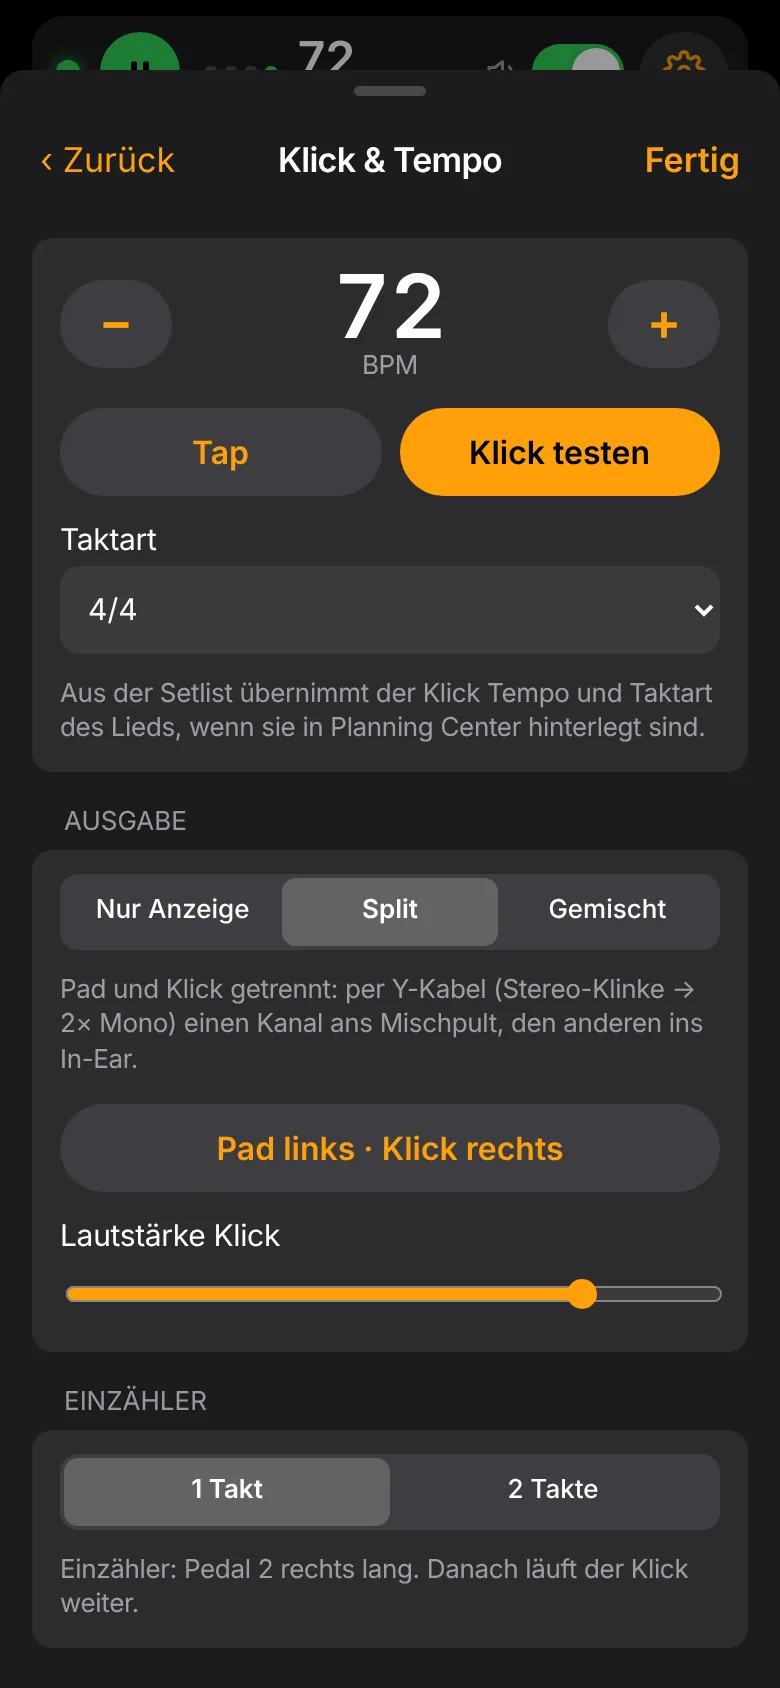
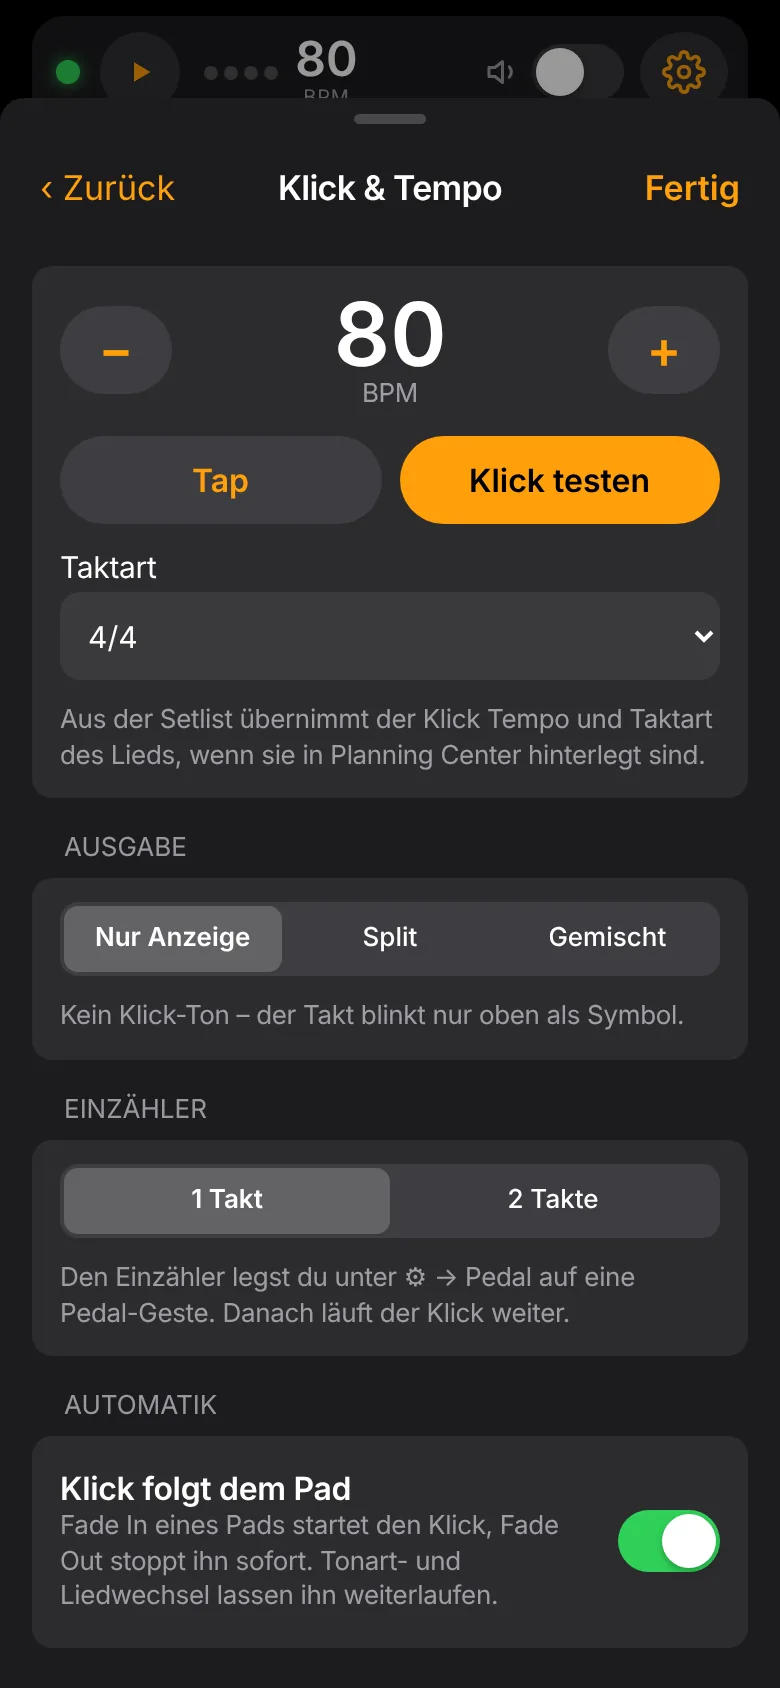
Version 3.5.0: Klick an/aus und Einzähler als Pedal-Aktionen, Pedal 2 frei belegbar, Option „Klick folgt dem Pad“
Claude-Session: https://claude.ai/code/session_0147wDrskXbm4k3nvnf9uujt

diff --git a/index.html b/index.html
@@ -513,6 +513,14 @@ body.muted .mrow2 input,body.muted .mrow2 .pct{opacity:.4}
 #checkList .trow.tg label input{width:22px;height:22px;accent-color:var(--accent);flex:none}
 .trow.tg label span{display:flex;flex-direction:column}
 .trow.tg .btn{flex:none;min-height:38px;font-size:14px;padding:6px 12px}
+
+/* iOS-Kippschalter für Optionszeilen in den Einstellungen */
+.group>label.trow{background:transparent!important;padding:4px 0!important;justify-content:space-between;flex-direction:row-reverse!important;gap:14px}
+.group>label.trow b{color:var(--fg,#fff);font-weight:600;font-size:16px}
+.group>label.trow input{appearance:none;-webkit-appearance:none;width:51px!important;height:31px!important;border-radius:16px;background:rgba(120,120,128,.36);position:relative;flex:none;margin:0;cursor:pointer;transition:background .2s}
+.group>label.trow input::after{content:"";position:absolute;top:2px;left:2px;width:27px;height:27px;border-radius:50%;background:#fff;box-shadow:0 2px 4px rgba(0,0,0,.25);transition:transform .2s}
+.group>label.trow input:checked{background:var(--sys-green,#30d158)}
+.group>label.trow input:checked::after{transform:translateX(20px)}
 </style>
 </head>
 <body>
@@ -616,17 +624,25 @@ body.muted .mrow2 input,body.muted .mrow2 .pct{opacity:.4}
     <p class="hint">Am Pedal einen Modus mit Pfeiltasten oder Bild↑/↓ wählen und den Repeat-Modus ausschalten.</p>
     <h3>Belegung</h3>
     <div class="group" id="p_map">
-      <label><span>Links 1×</span><select id="pm_lt"><option value="next">Vor (Tonart / Lied)</option><option value="prev">Zurück (Tonart / Lied)</option><option value="fade">Fade In / Out</option><option value="volume">Lautstärke-Modus</option><option value="none">– nichts –</option></select></label>
-      <label><span>Links 2× (doppelt)</span><select id="pm_ld"><option value="next">Vor (Tonart / Lied)</option><option value="prev">Zurück (Tonart / Lied)</option><option value="fade">Fade In / Out</option><option value="volume">Lautstärke-Modus</option><option value="none">– nichts –</option></select></label>
-      <label><span>Rechts 1×</span><select id="pm_rt"><option value="next">Vor (Tonart / Lied)</option><option value="prev">Zurück (Tonart / Lied)</option><option value="fade">Fade In / Out</option><option value="volume">Lautstärke-Modus</option><option value="none">– nichts –</option></select></label>
-      <label><span>Rechts 2× (doppelt)</span><select id="pm_rd"><option value="next">Vor (Tonart / Lied)</option><option value="prev">Zurück (Tonart / Lied)</option><option value="fade">Fade In / Out</option><option value="volume">Lautstärke-Modus</option><option value="none">– nichts –</option></select></label>
+      <label><span>Links 1×</span><select id="pm_lt"></select></label>
+      <label><span>Links 2× (doppelt)</span><select id="pm_ld"></select></label>
+      <label><span>Rechts 1×</span><select id="pm_rt"></select></label>
+      <label><span>Rechts 2× (doppelt)</span><select id="pm_rd"></select></label>
       <label><span>Zeit für Doppeltipp <b id="v_dbl"></b></span><input type="range" id="p_dbl" min="200" max="700" step="25"></label>
-      <p class="hint">„Vor“ und „Zurück“ gehen durch die Tonarten – bei aktiver Setlist von Lied zu Lied. Ist für eine Taste kein Doppeltipp belegt, reagiert der einfache Tritt sofort; sonst wartet die App die Doppeltipp-Zeit ab. Im Lautstärke-Modus: rechts = lauter, links = leiser (5 %); zurück automatisch nach 3 s oder per Doppeltipp.</p>
+      <p class="hint">„Vor“ und „Zurück“ gehen durch die Tonarten – bei aktiver Setlist von Lied zu Lied. „Einzähler“ zählt ein, danach läuft der Klick weiter. Ist für eine Taste kein Doppeltipp belegt, reagiert der einfache Tritt sofort; sonst wartet die App die Doppeltipp-Zeit ab. Im Lautstärke-Modus: rechts = lauter, links = leiser (5 %); zurück automatisch nach 3 s oder per Doppeltipp.</p>
       <div class="row"><button class="btn" id="pm_reset">Standard-Belegung</button></div>
     </div>
-    <h3>Pedal 2 · Sets &amp; Klick</h3>
+    <h3>Pedal 2</h3>
     <div class="group"><p id="pedal2Info"></p>
       <div class="row"><button class="btn accent" id="learn2Btn">Pedal 2 lernen</button><button class="btn" id="pedal2Reset">Entfernen</button></div></div>
+    <div class="group" id="p2_map">
+      <label><span>Links 1×</span><select id="pm2_lt"></select></label>
+      <label><span>Links 2× (doppelt)</span><select id="pm2_ld"></select></label>
+      <label><span>Rechts 1×</span><select id="pm2_rt"></select></label>
+      <label><span>Rechts 2× (doppelt)</span><select id="pm2_rd"></select></label>
+      <p class="hint">Die Zeit für den Doppeltipp gilt für beide Pedale.</p>
+      <div class="row"><button class="btn" id="pm2_reset">Standard-Belegung</button></div>
+    </div>
     <p class="hint">Beide Pedale gleichzeitig in den iOS-Einstellungen unter Bluetooth koppeln. Sie müssen unterschiedliche Tasten senden – also verschiedene Modi am Pedal wählen.</p>
   </section>
 
@@ -647,7 +663,9 @@ body.muted .mrow2 input,body.muted .mrow2 .pct{opacity:.4}
     </div>
     <h3>Einzähler</h3>
     <div class="group"><div class="seg" id="c_count"><button class="segbtn" data-v="1">1 Takt</button><button class="segbtn" data-v="2">2 Takte</button></div>
-      <p class="hint">Einzähler: Pedal 2 rechts lang. Danach läuft der Klick weiter.</p></div>
+      <p class="hint">Den Einzähler legst du unter ⚙ → Pedal auf eine Pedal-Geste. Danach läuft der Klick weiter.</p></div>
+    <h3>Automatik</h3>
+    <div class="group"><label class="trow"><input type="checkbox" id="c_follow"><span><b>Klick folgt dem Pad</b><small>Fade In eines Pads startet den Klick, Fade Out stoppt ihn sofort. Tonart- und Liedwechsel lassen ihn weiterlaufen.</small></span></label></div>
   </section>
 
   <!-- Übergänge & Klang -->
@@ -832,7 +850,7 @@ body.muted .mrow2 input,body.muted .mrow2 .pct{opacity:.4}
 
 <script>
 "use strict";
-const VERSION="3.4.0";
+const VERSION="3.5.0";
 // ================= Grundlagen =================
 const KEYS=[["C",null],["D♭","C♯"],["D",null],["E♭","D♯"],["E",null],["F",null],["F♯","G♭"],["G",null],["A♭","G♯"],["A",null],["B♭","A♯"],["B",null]];
 const SETCOLORS=["#ff9f33","#4fc3f7"];
@@ -1152,18 +1170,19 @@ function stopLayer(L,dur){
 function playKey(k){
   const a=hasPad(S.set,k), b=hasPad(S.setB,k);
   if(!a&&!b){toast(`${KEYS[k][0]} ist in „${setName(S.set)}“${S.setB?` und „${setName(S.setB)}“`:""} nicht belegt`);return false;}
+  if(!anyCur()&&CLICK.follow&&!clickOn)startClick(false);   // Fade In aus der Stille → Klick mit starten
   if(a)play(S.set,k,"a"); else stopLayer("a",S.xfade);
   if(b)play(S.setB,k,"b"); else stopLayer("b",S.xfade);
   return true;
 }
 function stopCurrent(dur){ loadingKey=null; stopLayer("a",dur); stopLayer("b",dur); render(); }
 function stopMatching(fn,dur){ if(current&&fn(current)){stopLayer("a",dur);} if(curB&&fn(curB)){stopLayer("b",dur);} render(); }
-function fadeAll(dur){ request++; requestB++; loadingKey=null; if(ctx)for(const v of voices)fadeOutVoice(v,dur); current=null; curB=null; render(); }
+function fadeAll(dur){ if(CLICK.follow&&clickOn&&anyCur())stopClick(); request++; requestB++; loadingKey=null; if(ctx)for(const v of voices)fadeOutVoice(v,dur); current=null; curB=null; render(); }
 function isPlaying(k){return playingKey()===k;}
 
 function toggleKey(k){
   setSelected(k);
-  if(isPlaying(k)){stopCurrent(S.fadeOut);return;}
+  if(isPlaying(k)){stopCurrent(S.fadeOut);if(CLICK.follow&&clickOn)stopClick();return;}
   playKey(k);
 }
 function setSelected(k){ selected=((k%12)+12)%12; store("apl.selected",selected); render(); clearTimeout(setSelected.t); setSelected.t=setTimeout(()=>{prefetch(S.set,selected);if(S.setB)prefetch(S.setB,selected);},250); }
@@ -1190,7 +1209,12 @@ const down={};            // side → {t, timer, longFired}
 let learning=null, lastSide=null, lastSideT=0, fallbackTimer=null, fallbackSide=null;
 function sideOf(key){ if(typeof side2==="function"&&side2(key))return null; if(P.left.includes(key))return "left"; if(P.right.includes(key))return "right"; return null; }
 // ---- Pedal 1: frei belegbare Gesten (links/rechts × einmal/doppelt) ----
-const PEDAL_ACTIONS={next:"Vor (Tonart / Lied)",prev:"Zurück (Tonart / Lied)",fade:"Fade In / Out",volume:"Lautstärke-Modus",none:"– nichts –"};
+const PEDAL_ACTIONS={next:"Vor (Tonart / Lied)",prev:"Zurück (Tonart / Lied)",fade:"Fade In / Out",volume:"Lautstärke-Modus",click:"Klick an / aus",count:"Einzähler",setnext:"Set Ebene 2 vor",setprev:"Set Ebene 2 zurück",none:"– nichts –"};
+const P2_ACTIONS=["next","prev","fade","click","count","setnext","setprev","none"];   // ohne Lautstärke-Modus (der gehört zu Pedal 1)
+function fillPedalSelects(){for(const k of ["lt","ld","rt","rd"]){const a=$("pm_"+k),b=$("pm2_"+k);
+  if(a&&!a.options.length)a.innerHTML=Object.entries(PEDAL_ACTIONS).map(([v,t])=>`<option value="${v}">${t}</option>`).join("");
+  if(b&&!b.options.length)b.innerHTML=P2_ACTIONS.map(v=>`<option value="${v}">${PEDAL_ACTIONS[v]}</option>`).join("");}}
+fillPedalSelects();
 const PMAP_DEFAULT={lt:"next",ld:"prev",rt:"fade",rd:"volume"};
 P.map=Object.assign({},PMAP_DEFAULT,P.map||{});if(!P.dbl)P.dbl=350;
 function runPedal(act){
@@ -1198,6 +1222,10 @@ function runPedal(act){
   else if(act==="prev"){slOn()?stepSong(-1):stepSel(-1);}
   else if(act==="fade"){toggleKey(selected);}
   else if(act==="volume"){volMode?exitVol():enterVol();}
+  else if(act==="click"){toggleClick();}
+  else if(act==="count"){countIn();}
+  else if(act==="setnext"){stepSet(1);}
+  else if(act==="setprev"){stepSet(-1);}
 }
 // ---- Lautstärke-Modus: rechts = lauter, links = leiser (halten = stufenlos, falls das Pedal Halten meldet) ----
 let volMode=false,volExitT=null,volRampT=null,volRampI=null,volTap={left:0,right:0},volPrev={left:null,right:null};
@@ -1218,11 +1246,11 @@ function volKeyDown(side){
 }
 function volKeyUp(){clearTimeout(volRampT);clearInterval(volRampI);}
 const pend={left:null,right:null};
-function pedalTap(side){
-  const t=P.map[side==="left"?"lt":"rt"],d=P.map[side==="left"?"ld":"rd"];
+function pedalTap(side,map=P.map,pd=pend){
+  const t=map[side==="left"?"lt":"rt"],d=map[side==="left"?"ld":"rd"];
   if(d==="none"){runPedal(t);return;}                    // kein Doppeltipp belegt → sofort reagieren
-  if(pend[side]){clearTimeout(pend[side]);pend[side]=null;runPedal(d);return;}
-  pend[side]=setTimeout(()=>{pend[side]=null;runPedal(t);},P.dbl);
+  if(pd[side]){clearTimeout(pd[side]);pd[side]=null;runPedal(d);return;}
+  pd[side]=setTimeout(()=>{pd[side]=null;runPedal(t);},P.dbl);
 }
 const typing=e=>e.target&&e.target.tagName==="INPUT"&&(e.target.type==="text"||e.target.type==="password");
 window.addEventListener("keydown",e=>{
@@ -1273,6 +1301,7 @@ function learnKeyDown(e){
       if(P2){P2.left=P2.left.filter(k=>k!==L.left&&k!==L.right);P2.right=P2.right.filter(k=>k!==L.left&&k!==L.right);if(!P2.left.length||!P2.right.length)P2=null;savePedal2();updatePedal2Info();}
       learning=null;$("learnBox").textContent="Fertig ✓";$("learnSub").textContent=`Links = ${keyName(L.left)}, rechts = ${keyName(L.right)}. Die Belegung stellst du unter „Belegung“ ein.`;
       $("learnCancel").textContent="Schließen";updatePedalInfo();return;}
+    if(L.which===2){finishLearn();return;}
     L.step="hold";L.events=[];learnUI();
   }
   else if(L.step==="hold"&&e.key===L.left){
@@ -1290,11 +1319,11 @@ function finishLearn(){
   else if(downs>2){hold=false;note="Dein Pedal sendet beim Halten viele einzelne Tritte (Repeat-Modus). Schalte am Pedal den Repeat-Modus aus und lerne erneut – bis dahin gilt: links doppelt = zurück, beide Tasten = alles aus.";}
   else{hold=false;note="Dein Pedal meldet kein langes Drücken. Ersatz: links doppelt tippen = zurück, beide Tasten gleichzeitig = alles ausblenden.";}
   if(L.which===2){
-    P2={left:[L.left],right:[L.right],hold};savePedal2();
+    P2={left:[L.left],right:[L.right],map:(P2&&P2.map)||Object.assign({},P2MAP_DEFAULT)};savePedal2();
     // Tasten von Pedal 2 aus der Belegung von Pedal 1 entfernen (Standard enthält z. B. auch Bild↑/↓)
     P.left=P.left.filter(k=>k!==L.left&&k!==L.right);P.right=P.right.filter(k=>k!==L.left&&k!==L.right);savePedal();
     learning=null;
-    $("learnBox").textContent="Pedal 2 fertig ✓";$("learnSub").textContent=`Links = ${keyName(L.left)} (Sets), rechts = ${keyName(L.right)} (Klick). ${note.replace("links doppelt = zurück, beide Tasten = alles aus","doppelt tippen = lange Funktion").replace(/Ersatz:.*$/,"Ersatz: doppelt tippen = lange Funktion.")}`;
+    $("learnBox").textContent="Pedal 2 fertig ✓";$("learnSub").textContent=`Links = ${keyName(L.left)}, rechts = ${keyName(L.right)}. Die Belegung stellst du unter „Pedal 2“ ein.`;
     $("learnCancel").textContent="Schließen";updatePedalInfo();updatePedal2Info();return;
   }
   P={left:[L.left],right:[L.right],hold,map:P.map,dbl:P.dbl}; savePedal();
@@ -2238,7 +2267,7 @@ renderSetlist();
 
 // ================= Klick (Metronom) =================
 // Ausgabe: "visual" = nur Anzeige · "split" = Pad auf einem, Klick auf dem anderen Kanal (Mono) · "mix" = Klick in beiden Kanälen
-const CLICK=Object.assign({out:"visual",swap:false,vol:.8,bpm:80,meter:4,countIn:1},load("apl.click",{}));
+const CLICK=Object.assign({out:"visual",swap:false,vol:.8,bpm:80,meter:4,countIn:1,follow:false},load("apl.click",{}));
 const saveClick=()=>store("apl.click",CLICK);
 let clickGain=null,padMono=null,merger=null;
 function routeAudio(){
@@ -2354,13 +2383,14 @@ function renderClickSettings(){
   $("c_swapRow").style.display=CLICK.out==="split"?"":"none";
   $("c_swap").textContent=CLICK.swap?"Klick links · Pad rechts":"Pad links · Klick rechts";
   $("c_vol").value=CLICK.vol;$("c_volRow").style.display=CLICK.out==="visual"?"none":"";
-  $("c_meter").value=String(CLICK.meter);renderClick();
+  $("c_meter").value=String(CLICK.meter);$("c_follow").checked=!!CLICK.follow;renderClick();
   $("c_outHint").textContent={visual:"Kein Klick-Ton – der Takt blinkt nur oben als Symbol.",
     split:"Pad und Klick getrennt: per Y-Kabel (Stereo-Klinke → 2× Mono) einen Kanal ans Mischpult, den anderen ins In-Ear.",
     mix:"Klick auf beiden Kanälen zusammen mit dem Pad – z. B. für Kopfhörer beim Üben."}[CLICK.out];
 }
 document.querySelectorAll("#c_out .segbtn").forEach(b=>b.onclick=()=>{CLICK.out=b.dataset.v;if(CLICK.out!=="visual")CLICK.audioOut=CLICK.out;saveClick();routeAudio();renderClickSettings();});
 document.querySelectorAll("#c_count .segbtn").forEach(b=>b.onclick=()=>{CLICK.countIn=+b.dataset.v;saveClick();renderClickSettings();});
+$("c_follow").onchange=()=>{CLICK.follow=$("c_follow").checked;saveClick();toast(CLICK.follow?"Klick folgt dem Pad":"Klick unabhängig vom Pad");};
 $("c_swap").onclick=()=>{CLICK.swap=!CLICK.swap;saveClick();routeAudio();renderClickSettings();};
 $("c_vol").oninput=()=>{CLICK.vol=+$("c_vol").value;saveClick();if(clickGain)clickGain.gain.setTargetAtTime(CLICK.vol,ctx.currentTime,.02);};
 $("c_meter").onchange=()=>{setTempo(null,+$("c_meter").value);renderClickSettings();};
@@ -2371,38 +2401,26 @@ $("c_test").onclick=()=>{toggleClick();$("c_test").textContent=clickOn?"Klick st
 renderClickSettings();
 
 // ================= Pedal 2 =================
-// links kurz = nächstes Set · lang = Set zurück · rechts kurz = Klick an/aus · lang = Einzähler
+// frei belegbar wie Pedal 1: links/rechts × einmal/doppelt
+const P2MAP_DEFAULT={lt:"setnext",ld:"setprev",rt:"click",rd:"count"};   // entspricht der früheren festen Belegung
 let P2=load("apl.pedal2",null);
+if(P2&&!P2.map){P2.map=Object.assign({},P2MAP_DEFAULT);delete P2.hold;}
 const savePedal2=()=>{try{P2?localStorage.setItem("apl.pedal2",JSON.stringify(P2)):localStorage.removeItem("apl.pedal2");}catch(e){}};
 function side2(key){if(!P2)return null;if(P2.left.includes(key))return "left";if(P2.right.includes(key))return "right";return null;}
 function stepSet(dir){const keys=["",...allSetKeys().filter(k=>k!==S.set)],i=Math.max(0,keys.indexOf(S.setB));setLayerB(keys[((i+dir)%keys.length+keys.length)%keys.length]);}
-function action2(side,long){
-  if(side==="left")stepSet(long?-1:1);
-  else long?countIn():toggleClick();
-}
-const down2={};let tap2=null;
-function pedal2Down(e,side){
-  e.preventDefault();markPedal(e.key);if(e.repeat||down2[side])return;unlockAudio();
-  const d={longFired:false,timer:null};
-  if(P2.hold)d.timer=setTimeout(()=>{d.longFired=true;action2(side,true);},LONG_MS);
-  down2[side]=d;
-}
-function pedal2Up(e,side){
-  e.preventDefault();const d=down2[side];delete down2[side];if(!d)return;clearTimeout(d.timer);if(d.longFired)return;
-  if(P2.hold){action2(side,false);return;}
-  // ohne Halte-Erkennung: Doppeltipp = „lang“
-  if(tap2&&tap2.side===side){clearTimeout(tap2.timer);tap2=null;action2(side,true);return;}
-  tap2={side,timer:setTimeout(()=>{tap2=null;action2(side,false);},380)};
-}
-window.addEventListener("keydown",e=>{if(typing(e)||learning)return;const s=side2(e.key);if(!s)return;e.stopImmediatePropagation();pedal2Down(e,s);},true);
-window.addEventListener("keyup",e=>{if(typing(e)||learning)return;const s=side2(e.key);if(!s)return;e.stopImmediatePropagation();pedal2Up(e,s);},true);
+const down2={},pend2={left:null,right:null};
+window.addEventListener("keydown",e=>{if(typing(e)||learning)return;const s=side2(e.key);if(!s)return;e.stopImmediatePropagation();e.preventDefault();markPedal(e.key);
+  if(e.repeat||down2[s])return;down2[s]=1;unlockAudio();pedalTap(s,P2.map,pend2);},true);
+window.addEventListener("keyup",e=>{if(typing(e)||learning)return;const s=side2(e.key);if(!s)return;e.stopImmediatePropagation();e.preventDefault();delete down2[s];},true);
 function updatePedal2Info(){
-  const el=$("pedal2Info");if(!el)return;
-  el.innerHTML=P2?`Links: <b>${P2.left.map(keyName).join(" / ")}</b> · Rechts: <b>${P2.right.map(keyName).join(" / ")}</b><br>`+(P2.hold
-    ?"Links kurz = nächstes Set auf Ebene 2 · lang = zurück<br>Rechts kurz = Klick an/aus · lang = Einzähler"
-    :"Links = nächstes Set auf Ebene 2 · doppelt = zurück<br>Rechts = Klick an/aus · doppelt = Einzähler"):"Noch nicht eingerichtet. Ein zweites Pedal in einem anderen Modus koppeln (z. B. Bild↑/↓, wenn Pedal 1 Pfeiltasten sendet) und lernen.";
-  $("pedal2Reset").style.display=P2?"":"none";
+  const el=$("pedal2Info");if(!el)return;const A=k=>PEDAL_ACTIONS[P2.map[k]];
+  el.innerHTML=P2?`Links: <b>${P2.left.map(keyName).join(" / ")}</b> · Rechts: <b>${P2.right.map(keyName).join(" / ")}</b><br>Links 1× = ${A("lt")} · 2× = ${A("ld")}<br>Rechts 1× = ${A("rt")} · 2× = ${A("rd")}`
+    :"Noch nicht eingerichtet. Ein zweites Pedal in einem anderen Modus koppeln (z. B. Bild↑/↓, wenn Pedal 1 Pfeiltasten sendet) und lernen.";
+  $("pedal2Reset").style.display=P2?"":"none";$("p2_map").style.display=P2?"":"none";
+  if(P2)for(const k of ["lt","ld","rt","rd"])$("pm2_"+k).value=P2.map[k];
 }
+for(const k of ["lt","ld","rt","rd"])$("pm2_"+k).onchange=()=>{if(!P2)return;P2.map[k]=$("pm2_"+k).value;savePedal2();updatePedal2Info();};
+$("pm2_reset").onclick=()=>{if(!P2)return;P2.map=Object.assign({},P2MAP_DEFAULT);savePedal2();updatePedal2Info();toast("Pedal 2: Standard-Belegung");};
 $("learn2Btn").onclick=()=>{learning={step:"left",events:[],which:2};$("settingsSheet").classList.remove("open");$("learnSheet").classList.add("open");learnUI();};
 $("pedal2Reset").onclick=()=>{P2=null;savePedal2();updatePedal2Info();toast("Pedal 2 entfernt");};
 updatePedal2Info();

diff --git a/anleitung.html b/anleitung.html
@@ -421,12 +421,14 @@
       <div class="box tip"><b>Tempo aus Planning Center</b><p>Ist im Arrangement eines Lieds ein Tempo (BPM) und eine Taktart hinterlegt, übernimmt der Klick sie beim Liedwechsel in der Setlist automatisch. Das Tempo steht dann auch in der Setlist-Leiste.</p></div>
       <h3>Zweites Pedal</h3>
       <p>Koppel beide Pedale in den iOS-Einstellungen unter Bluetooth. Pedal 2 muss <b>andere Tasten</b> senden als Pedal 1, also an Pedal 2 einen anderen Modus wählen, z. B. Bild↑/↓. Dann <span class="ui">⚙</span> → <span class="ui">🦶 Pedal</span> → <span class="ui o">Pedal 2 lernen</span>.</p>
+      <p>Pedal 2 ist genauso frei belegbar wie Pedal 1: links und rechts je 1× und 2× tippen. Die Standard-Belegung:</p>
       <table>
-        <tr><th>Pedal 2</th><th>kurz</th><th>lang</th></tr>
+        <tr><th>Pedal 2</th><th>1× tippen</th><th>2× tippen</th></tr>
         <tr><td><b>Links</b></td><td>nächstes Set auf Ebene 2</td><td>Set auf Ebene 2 zurück</td></tr>
         <tr><td><b>Rechts</b></td><td>Klick an / aus</td><td>Einzähler, danach läuft der Klick weiter</td></tr>
       </table>
-      <p style="color:var(--dim);font-size:15px">Ein Set-Wechsel blendet die laufende Tonart direkt in den neuen Klang über, „Leer“ schaltet Ebene 2 stumm. Meldet das Pedal kein langes Drücken, gilt: doppelt tippen = lange Funktion.</p>
+      <p style="color:var(--dim);font-size:15px">Zur Auswahl stehen für beide Pedale: Vor, Zurück, Fade In/Out, <b>Klick an/aus</b>, <b>Einzähler</b>, Set Ebene 2 vor/zurück oder nichts – Pedal 1 zusätzlich den Lautstärke-Modus. Wer nur ein Pedal hat, kann den Klick also auch auf Pedal 1 legen, z. B. auf „links 2×“. Ein Set-Wechsel blendet die laufende Tonart direkt in den neuen Klang über, „Leer“ schaltet Ebene 2 stumm.</p>
+      <div class="box tip"><b>Klick folgt dem Pad</b><p>Unter <span class="ui">⚙</span> → <span class="ui">♩ Klick &amp; Tempo</span> → <span class="ui">Automatik</span>: Ist der Schalter an, startet der Klick mit dem Fade In eines Pads und stoppt sofort, wenn du ausblendest. Beim Wechsel der Tonart oder des Lieds läuft er einfach weiter (mit dem neuen Tempo aus der Setlist). Gilt egal, ob du per Pedal oder per Tipp ein- und ausblendest.</p></div>
     </div>
     <div class="shots" style="flex-direction:column;align-items:center">
       <figure style="flex-basis:auto"><img class="strip" src="anleitung/kopfzeile.webp" alt="Klick-Leiste mit LED, Play, Taktpunkten, Tempo und Ton-Schalter" loading="lazy"><figcaption>Klick-Leiste: LED, ▶, Takt und Tempo, Ton-Schalter, ⚙.</figcaption></figure>
@@ -634,13 +636,13 @@ tocSheet.addEventListener("click",e=>{if(e.target===tocSheet)tocSheet.classList.
 // Pedal-Grafik: Belegung je Modus
 const PMODES={
   normal:{a1:"1× tippen",a2:"2× tippen",lk:"vor (nächste Tonart)",ll:"zurück",rk:"Fade In / Out",rl:"Lautstärke-Modus",
-    note:"Das ist die Standard-Belegung. Jede der vier Gesten kannst du unter ⚙ → Pedal → „Belegung“ frei wählen: Vor, Zurück, Fade In/Out, Lautstärke-Modus oder nichts."},
+    note:"Das ist die Standard-Belegung. Jede der vier Gesten kannst du unter ⚙ → Pedal → „Belegung“ frei wählen: Vor, Zurück, Fade In/Out, Lautstärke-Modus, Klick an/aus, Einzähler, Set Ebene 2 vor/zurück oder nichts."},
   setlist:{a1:"1× tippen",a2:"2× tippen",lk:"nächstes Lied (laufendes Pad blendet über)",ll:"Lied zurück",rk:"Fade In / Out",rl:"Lautstärke-Modus",
     note:"„Vor“ und „Zurück“ springen von Lied zu Lied, solange eine Setlist aus Planning Center aktiv ist. Lieder ohne Tonart werden übersprungen."},
   volume:{a1:"1× tippen",a2:"halten",lk:"5 % leiser",ll:"stufenlos leiser (falls das Pedal Halten meldet)",rk:"5 % lauter",rl:"stufenlos lauter (falls das Pedal Halten meldet)",
     note:"Die LED oben in der App wird blau, in der Mitte erscheint groß die Lautstärke. Zurück geht es automatisch nach 3 Sekunden ohne Tritt – oder mit einem Doppeltipp auf die Taste, die den Lautstärke-Modus geöffnet hat. Geregelt wird die Gesamtlautstärke; die Überblendung bleibt."},
-  p2:{a1:"kurz",a2:"lang",lk:"nächstes Set für Pad 2 (inkl. „Leer“)",ll:"Set für Pad 2 zurück",rk:"Klick an / aus",rl:"Einzähler, danach läuft der Klick",
-    note:"Optional: ein zweites Pedal, das andere Tasten sendet (z. B. Bild↑/↓). Einrichten unter ⚙ → Pedal → „Pedal 2 lernen“. Meldet es kein Halten, gilt doppelt tippen = lang."}
+  p2:{a1:"1× tippen",a2:"2× tippen",lk:"nächstes Set für Pad 2 (inkl. „Leer“)",ll:"Set für Pad 2 zurück",rk:"Klick an / aus",rl:"Einzähler, danach läuft der Klick",
+    note:"Optional: ein zweites Pedal, das andere Tasten sendet (z. B. Bild↑/↓). Einrichten unter ⚙ → Pedal → „Pedal 2 lernen“. Die Belegung ist frei wählbar wie bei Pedal 1 – hier die Standard-Belegung."}
 };
 document.querySelectorAll(".pdemo").forEach(box=>{
   const set=m=>{box.dataset.m=m;const d=PMODES[m];box.querySelectorAll("[data-k]").forEach(el=>el.textContent=d[el.dataset.k]);

diff --git a/sw.js b/sw.js
@@ -1,6 +1,6 @@
 // Offline-Speicher für AmbientPad Live.
 // Bei jeder neuen Version VERSION erhöhen.
-const VERSION = "3.4.0";
+const VERSION = "3.5.0";
 const CACHE = "ambientpad-" + VERSION;
 const PADCACHE = "ambientpad-pads-v1";   // Standard-Pads: bleiben über App-Updates hinweg erhalten
 const FILES = ["./", "index.html", "manifest.webmanifest", "icon-192.png", "icon-512.png", "apple-touch-icon.png", "anleitung.html",
